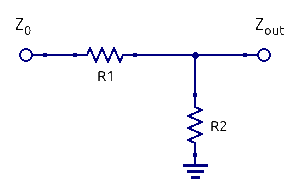
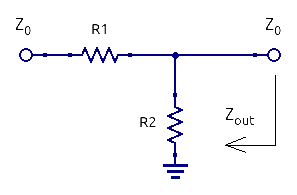
Add shunt resistor attenuator
The shunt resistor attenuator is unmatched at both ports. The input and output impedance is shown in a box.
The derivation of the design equations will be provided separately in the pull request

diff --git a/qucs-attenuator/attenuatorfunc.cpp b/qucs-attenuator/attenuatorfunc.cpp
@@ -168,9 +168,20 @@ int QUCS_Att::Calc(tagATT *ATT)
        ATT->R3 = ATT->Zin + ATT->R1;//Output impedance
        // Power dissipation
        ATT->PR1 = ATT->Pin*(1-L);// Shunt resistor
-
        break;
       }
+    case R_SHUNT:
+      {
+      L = pow(10, -ATT->Attenuation / 10);
+      // Design equations
+      ATT->R1 = (2*sqrt(ATT->Zout*ATT->Zin*L)*ATT->Zout*ATT->Zin + (ATT->Zout*ATT->Zout*ATT->Zin + ATT->Zout*ATT->Zin*ATT->Zin)*L)/(4*ATT->Zout*ATT->Zin - (ATT->Zout*ATT->Zout + 2*ATT->Zout*ATT->Zin + ATT->Zin*ATT->Zin)*L);// Shunt resistor
+      ATT->R2 = (ATT->Zout*ATT->R1)/(ATT->Zout+ATT->R1); // Input impedance
+      ATT->R3 = (ATT->Zin*ATT->R1)/(ATT->Zin+ATT->R1);//Output impedance
+      // Power dissipation
+      ATT->PR1 = ATT->Pin*(1-L);// Shunt resistor
+      break;
+      }
+
 	}
    return 0;
 
@@ -750,6 +761,58 @@ QString* QUCS_Att::createSchematic(tagATT *ATT, bool SP_box)
          }
       *s += "</Paintings>\n";
       break;
+
+      case R_SHUNT:
+
+        *s += QString("<R R1 1 250 200 -15 60 0 1 \"%1 Ohm\" 1 \"26.85\" 0 \"0.0\" 0 \"0.0\" 0 \"26.85\" 0 \"US\" 0>\n").arg(QString::number(ATT->R1, 'f', 1));
+        *s += "<GND * 1 250 230 0 0 0 0>\n";
+        if (SP_box)
+         {
+           // S-parameter simulation block
+           //-----------------------------
+           // Resistor attenuators are broadband ckts, so it's pointless to ask the user to input the analysis freq sweep. Let's do a wideband
+           // sweep and then the user can modify that in the schematic
+           *s += "<.SP SP1 1 140 350 0 83 0 0 \"lin\" 1 \"50 MHz\" 1 \"3 GHz\" 1 \"200\" 1 \"no\" 0 \"1\" 0 \"2\" 0 \"no\" 0 \"no\" 0>\n";
+
+           // Equations
+           *s += "<Eqn Eqn1 1 360 350 -32 19 0 0 \"S21_dB=dB(S[2,1])\" 1 \"S11_dB=dB(S[1,1])\" 1 \"S22_dB=dB(S[2,2])\" 1 \"yes\" 0>\n";
+
+           // Input term
+           *s += QString("<Pac P1 1 50 200 18 -26 0 1 \"1\" 1 \"%1 Ohm\" 1 \"0 dBm\" 0 \"1 GHz\" 0 \"26.85\" 0>\n").arg(ATT->Zin);
+           *s += "<GND * 1 50 230 0 0 0 0>\n";
+
+           // Output term
+           *s += QString("<Pac P1 1 460 200 18 -26 0 1 \"1\" 1 \"%1 Ohm\" 1 \"0 dBm\" 0 \"1 GHz\" 0 \"26.85\" 0>\n").arg(ATT->Zout);
+           *s += "<GND * 1 460 230 0 0 0 0>\n";
+         }
+        *s += "</Components>\n";
+        *s += "<Wires>\n";
+        *s += "<140 130 350 130 \"\" 0 0 0 \"\">\n";
+        *s += "<250 130 250 170 \"\" 0 0 0 \"\">\n";
+        if (SP_box)
+             {   // Additional wiring because of the input/output ports
+
+                 // Input port
+                 *s += "<50 130 50 170 \"\" 0 0 0 \"\">\n";
+                 *s += "<50 130 140 130 \"\" 0 0 0 \"\">\n";
+
+                 // Output port
+                 *s += "<460 130 460 170 \"\" 0 0 0 \"\">\n";
+                 *s += "<460 130 350 130 \"\" 0 0 0 \"\">\n";
+             }
+        *s += "</Wires>\n";
+        *s += "<Diagrams>\n";
+        *s += "</Diagrams>\n";
+        *s += "<Paintings>\n";
+        *s += QString("<Text 160 60 12 #000000 0 \"%1 dB Shunt R Attenuator\">\n").arg(ATT->Attenuation);
+        if (!SP_box)
+           {// If the SP simulation box option is activated, then the input and output ports are attached.
+            // Thus, it doesn't make sense to have a text field indicating the input/output impedance
+              *s += QString("<Text 50 122 10 #000000 0 \"Z1: %1 Ohm\">\n").arg(ATT->Zin);
+              *s += QString("<Text 360 122 10 #000000 0 \"Z2: %1 Ohm\">\n").arg(ATT->Zout);
+           }
+        *s += "</Paintings>\n";
+        break;
     }
 
   return s;

diff --git a/qucs-attenuator/qucsattenuator.cpp b/qucs-attenuator/qucsattenuator.cpp
@@ -92,6 +92,7 @@ QucsAttenuator::QucsAttenuator()
   ComboTopology->insertItem(7, "L-pad 1st series");
   ComboTopology->insertItem(8, "L-pad 1st shunt");
   ComboTopology->insertItem(9, "Rseries");
+  ComboTopology->insertItem(10, "Rshunt");
   connect(ComboTopology, SIGNAL(activated(int)), SLOT(slotTopologyChanged()));
   topoGrid->addWidget(ComboTopology, 1,0,1,2);
 
@@ -625,15 +626,18 @@ void QucsAttenuator::slotTopologyChanged()
       lineEdit_R2_Pdiss->show();
       ComboR2_PowerUnits->show();
       break;
+
       case R_SERIES:
-        pixTopology->setPixmap(QPixmap((":/bitmaps/Rseries.png")));
+      case R_SHUNT:
+       (ComboTopology->currentIndex() == R_SERIES) ? pixTopology->setPixmap(QPixmap((":/bitmaps/Rseries.png")))
+                                                          : pixTopology->setPixmap(QPixmap((":/bitmaps/Rshunt.png")));
         LabelImp1->setText("Zin:");
         LabelImp2->show();
         QSpinBox_Zout->show();
         LabelImp2_Ohm->show();
-        LabelR2->setText("Zin:");
+        LabelR2->setText("Z1:");
         LabelR3->show();
-        LabelR3->setText("Zout:");
+        LabelR3->setText("Z2:");
         LabelR4->hide();
         lineEdit_R3->show();
         lineEdit_R4->hide();

diff --git a/qucs-attenuator/attenuatorfunc.h b/qucs-attenuator/attenuatorfunc.h
@@ -22,6 +22,7 @@
 #define L_PAD_1ST_SERIES 6
 #define L_PAD_1ST_SHUNT 7
 #define R_SERIES 8
+#define R_SHUNT 9
 
 #define C0 299792458
 #define PI 3.141592653589793238462643383279502884197169399375105820974944592307816406286
